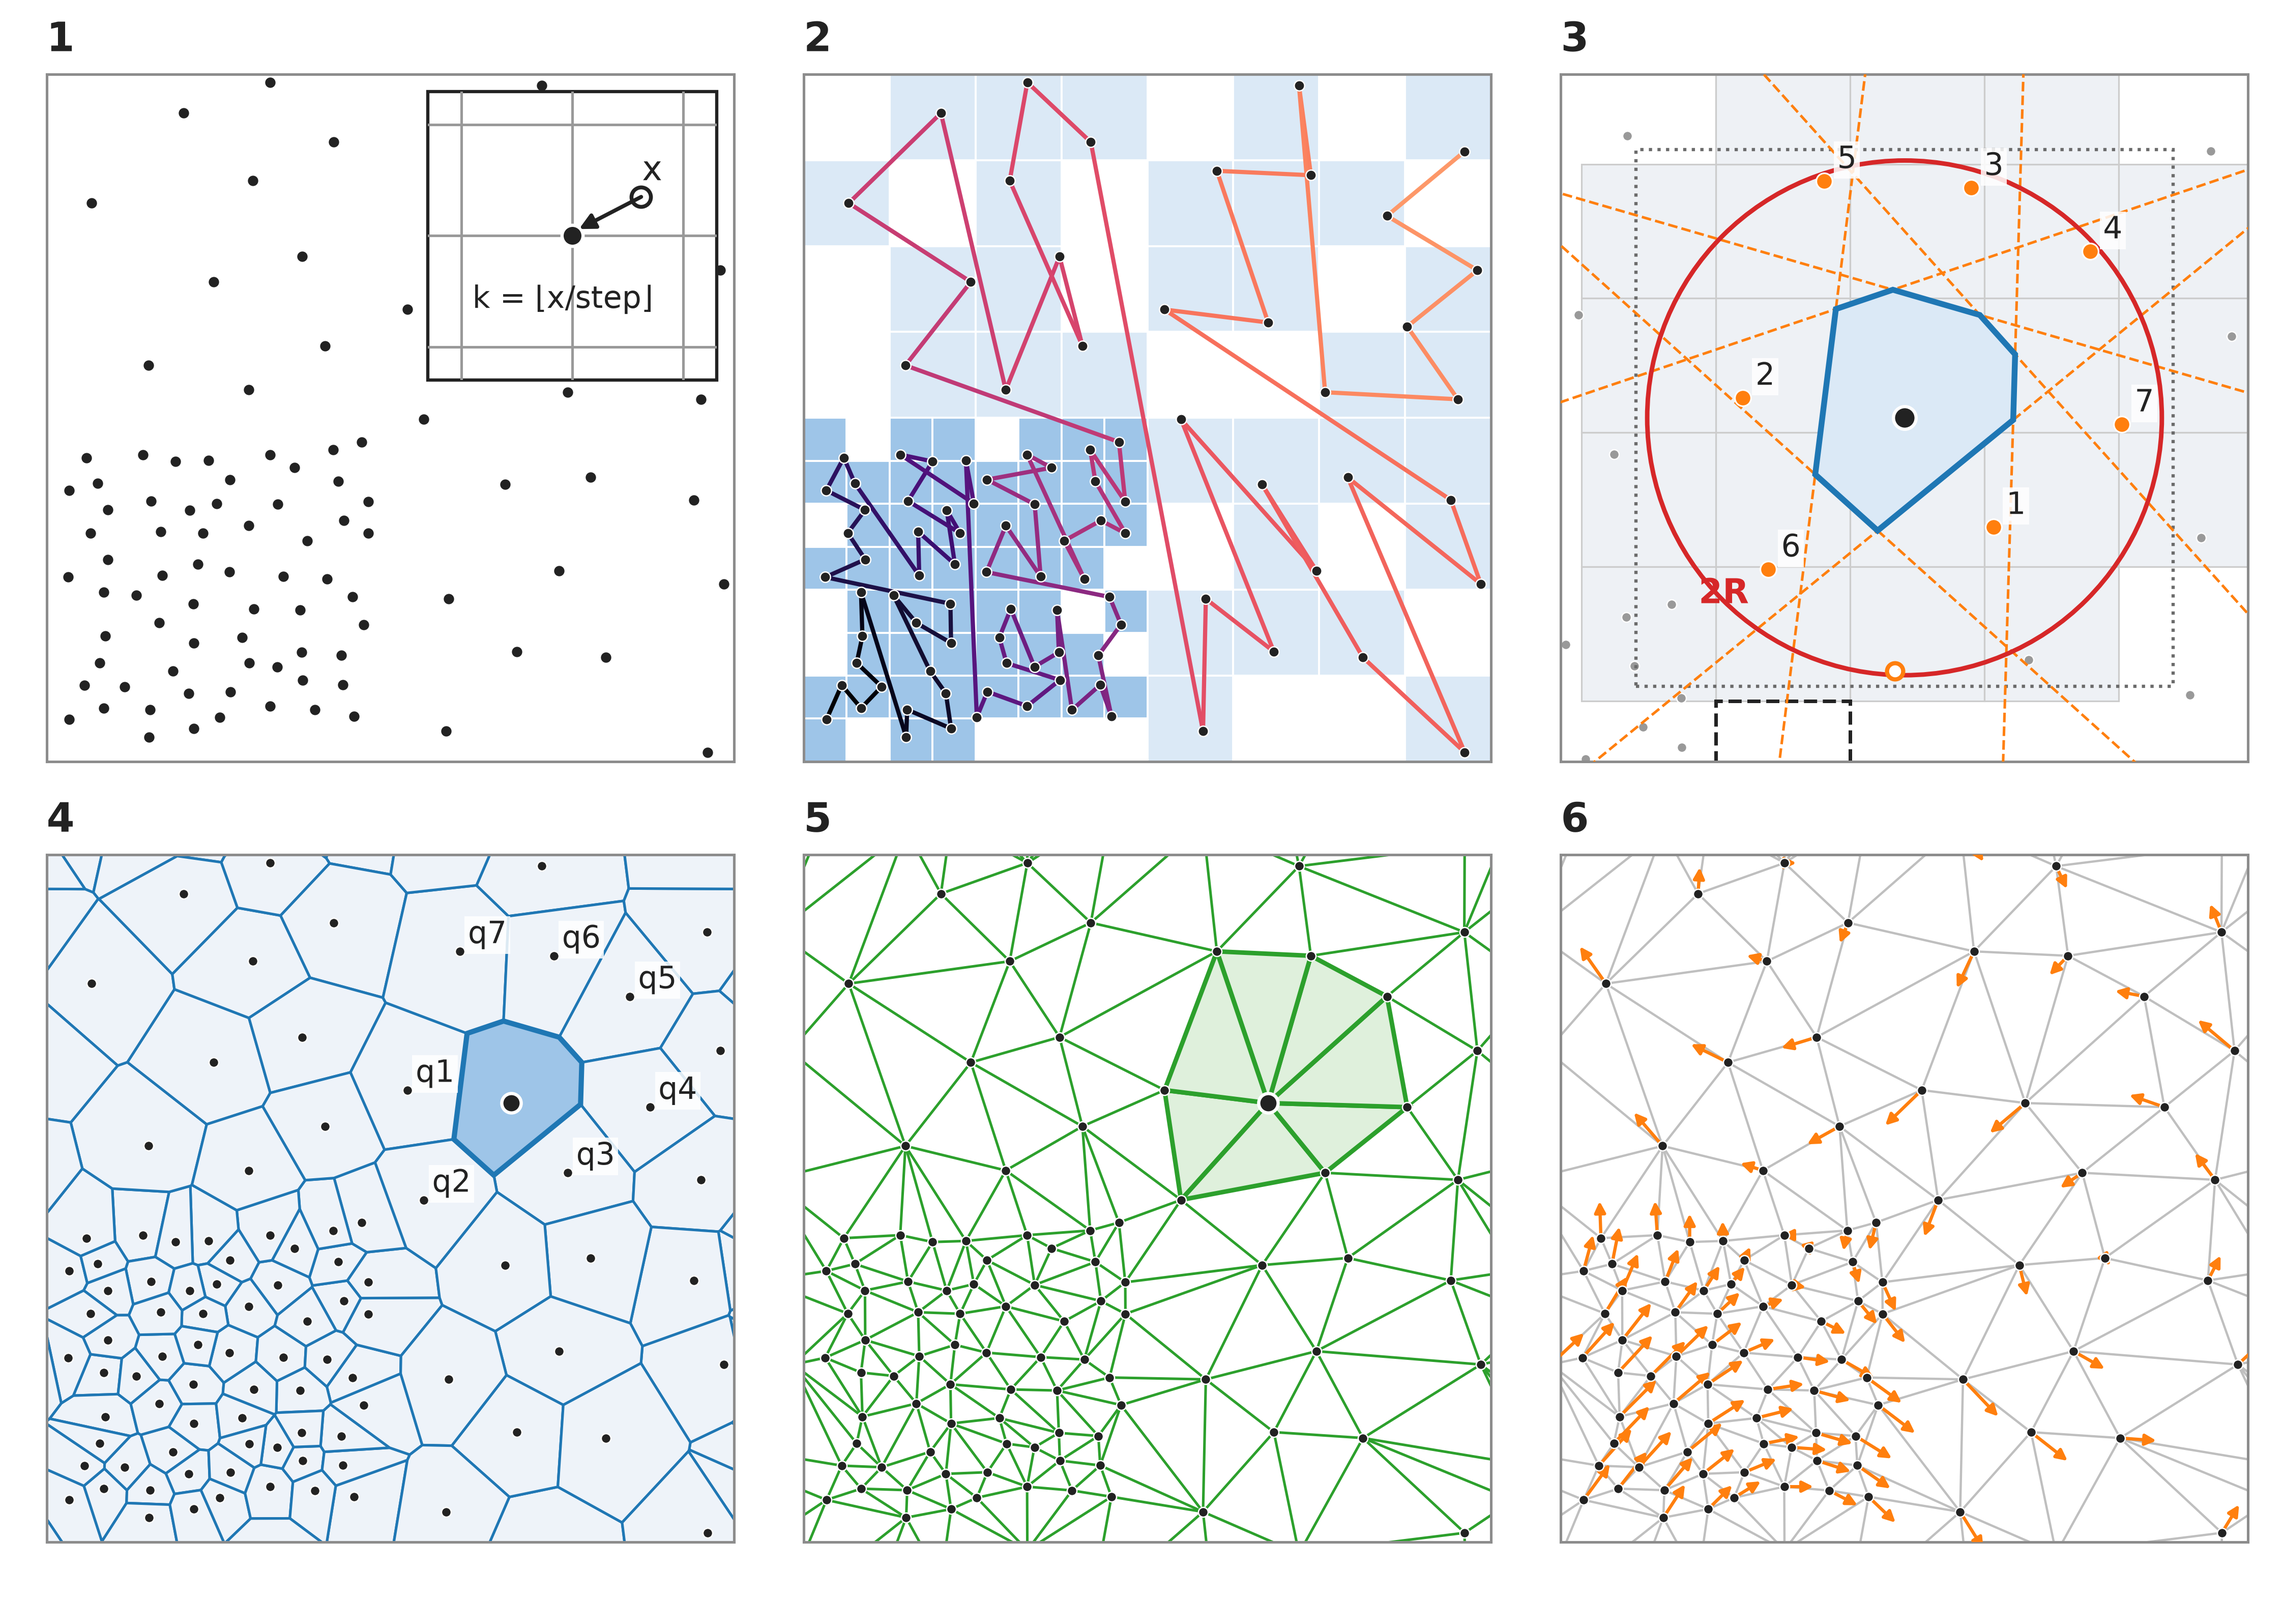
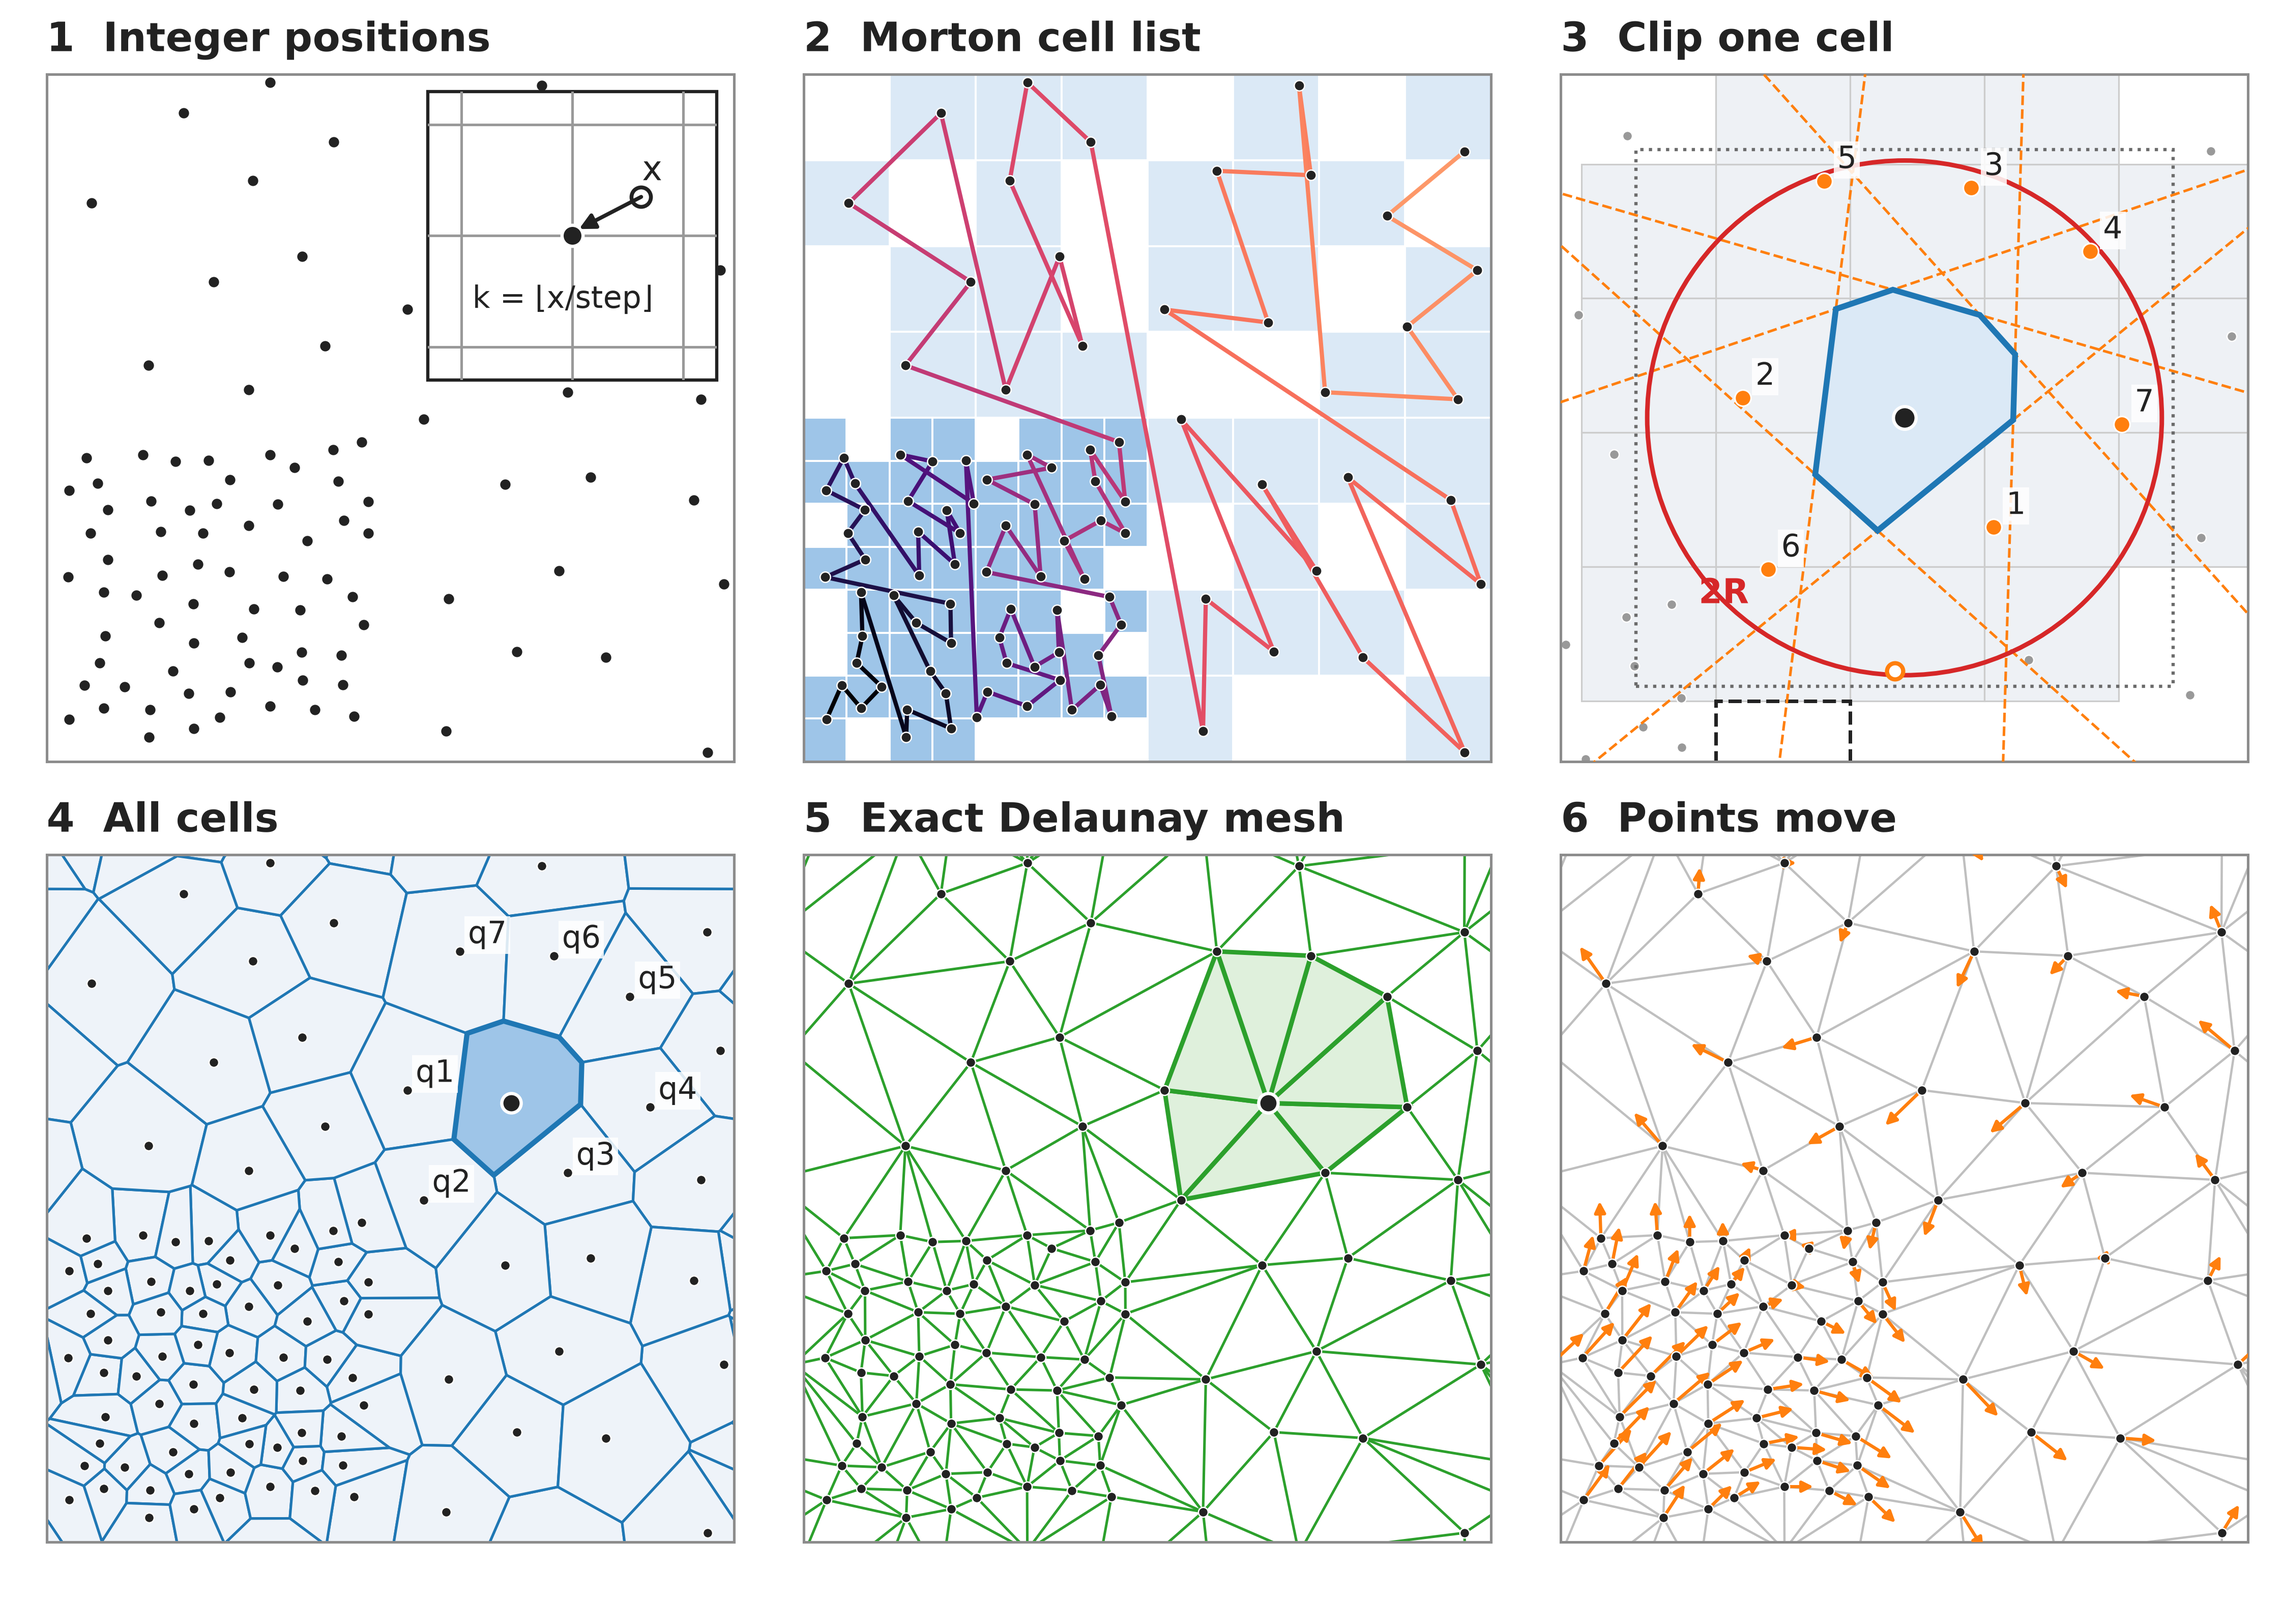
Brief titles on the walkthrough panels

diff --git a/paper/scripts/fig_walkthrough.py b/paper/scripts/fig_walkthrough.py
@@ -18,6 +18,10 @@ LEFT = 0.05  # inches left of the first column
 PAIR = 0.20  # extra space between the build and the step rows, inches
 SHEET = {}  # the one sheet both of overview_figure's figures draw on
 _init = of.Sheet.__init__
+# A brief title beside each panel's number (the full sentence stays in the caption).
+TITLE = {"1": "Integer positions", "2": "Morton cell list", "3": "Clip one cell", "4": "All cells",
+         "5": "Exact Delaunay mesh", "6": "Points move", "7": "Check", "8": "Flip", "9": "Geometry",
+         "10": "Per-cell results", "11": "Fallbacks", "12": "Re-sort"}
 CAPTIONS = []  # (panel number, title, text, code) of every panel, for the captions
 _panel = of.Sheet.panel
 WHERE = {}  # panel number -> where it runs (GPU, host, caller): for the caption
@@ -53,7 +57,7 @@ def panel(self, row, col, number, title, where, body, code, window=(0, 1, 0, 1))
         row = row + 2 + PAIR / rowh
     WHERE[number] = where
     shown = number if int(number) <= 6 else str(int(number) - 6)  # the step is a figure of its own: its panels 1-6
-    return _panel(self, row, col + LEFT / self.W, shown, "", (), "", "", window)
+    return _panel(self, row, col + LEFT / self.W, shown, TITLE[number], (), "", "", window)
 
 
 def sheet(self, rows, cols):
